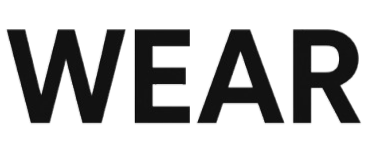
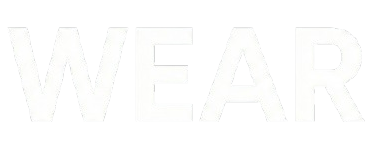
theme update

diff --git a/src/components/Navbar/Navbar.tsx b/src/components/Navbar/Navbar.tsx
@@ -21,28 +21,31 @@ const Navbar = () => {
   }
 
   return (
-    <div className='flex items-center justify-between py-5 font-medium' >
-      <NavLink to="/" ><img src={Logo} alt='Wear' className='w-25 bg-white' /></NavLink>
-      <ul className='hidden sm:flex gap-5 text-sm text-gray-700'>
+    <div className='flex items-center justify-between py-3 font-medium mb-5' >
+      <NavLink to="/" ><img src={Logo} alt='Wear' className='w-20' /></NavLink>
+      <ul className='hidden sm:flex gap-5 text-sm text-[#FFFF]'>
         <NavLink to="/" className="flex flex-col items-center gap-1" >
           <p>Home</p>
-          <hr className='w-2/4 border-none h-[1.5px] bg-gray-700 hidden ' />
+          <hr className='w-2/4 border-none h-[1.5px] bg-[#FFFF] hidden ' />
         </NavLink>
         <NavLink to="/collection" className="flex flex-col items-center gap-1" >
           <p>Collection</p>
-          <hr className='w-2/4 border-none h-[1.5px] bg-gray-700  hidden' />
+          <hr className='w-2/4 border-none h-[1.5px] bg-[#FFFF]  hidden' />
         </NavLink>
         <NavLink to="/about" className="flex flex-col items-center gap-1" >
           <p>About</p>
-          <hr className='w-2/4 border-none h-[1.5px] bg-gray-700  hidden' />
+          <hr className='w-2/4 border-none h-[1.5px] bg-[#FFFF]  hidden' />
         </NavLink>
         <NavLink to="/contact" className="flex flex-col items-center gap-1" >
           <p>Contact</p>
-          <hr className='w-2/4 border-none h-[1.5px] bg-gray-700 hidden ' />
+          <hr className='w-2/4 border-none h-[1.5px] bg-[#FFFF] hidden ' />
         </NavLink>
       </ul>
       <div className="flex items-center gap-6">
-        <SearchIcon onClick={() => setShowSearch(true)} className="w-5 cursor-pointer" />
+        <SearchIcon onClick={() => {
+          setShowSearch(true);
+          navigate("/collection")
+          }} className="w-5 cursor-pointer" />
         <div className="group relative hidden sm:block ">
           {
             token ? (
@@ -56,11 +59,11 @@ const Navbar = () => {
           {
             token && (
 
-              <div className="group-hover:block hidden absolute dropdown-menu -right-[50px] pt-2 " >
-                <div className="flex flex-col gap-2 w-36 py-3 px-5 bg-slate-100 text-gray-500 rounded  ">
-                  {token && <p onClick={() => navigate("/profile")} className="cursor-pointer hover:text-black" >My Profile</p> }
-                  <p onClick={() => navigate("/orders")} className="cursor-pointer hover:text-black" >Orders</p>
-                  <p onClick={Logout} className="cursor-pointer hover:text-black" >Logout</p>
+              <div className="group-hover:block hidden absolute dropdown-menu -right-[50px] pt-2 backdrop-blur-xl z-50" >
+                <div className="flex flex-col gap-2 w-36 py-3 px-5 bg-[#042929]/10  text-[#FFFF] rounded  ">
+                  {token && <p onClick={() => navigate("/profile")} className="cursor-pointer hover:text-sky-700" >My Profile</p> }
+                  <p onClick={() => navigate("/orders")} className="cursor-pointer hover:text-sky-700" >Orders</p>
+                  <p onClick={Logout} className="cursor-pointer hover:text-sky-700" >Logout</p>
                 </div>
               </div>
             )
@@ -68,13 +71,13 @@ const Navbar = () => {
         </div>
         <Link to="/cart" className="relative" >
           <ShoppingCartIcon className="w-5 min-w-5" />
-          <p className="absolute right-[-5px] bottom-[5px] w-4 text-center leading-4 bg-black text-white aspect-square rounded-full text-[8px]  " >{getCartCount()}</p>
+          <p className="absolute right-[-5px] bottom-[5px] w-4 text-center leading-4 backdrop-blur-xl text-white aspect-square rounded-full text-[8px]  " >{getCartCount()}</p>
         </Link>
         <Menu onClick={() => setvisible(true)} className=" w-5 cursor-pointer sm:hidden" />
       </div>
       {/* Mobile Navabr  */}
-      <div className={`absolute top-0 right-0 bottom-0 overflow-hidden bg-white transition-all ${visible ? 'w-[70%]' : 'w-0'}`} >
-        <div className="flex flex-col text-gray-700" >
+      <div className={`absolute top-0 right-0 bottom-0 overflow-hidden backdrop-blur-3xl transition-all ${visible ? 'w-[70%]' : 'w-0'}`} >
+        <div className="flex flex-col text-[#FFFF]" >
           <div onClick={() => setvisible(false)} className="flex items-center gap-2 p-3" >
             <ChevronDown className="h-4 rotate-90 mt-[3px]" />
             <p>Back</p>
@@ -90,14 +93,14 @@ const Navbar = () => {
           <button onClick={()=>{
             Logout()
             setvisible(false)
-          }} className=" absolute top-[150px] cursor-pointer py-2 px-4 bg-black text-white w-[80%] " >Logout</button>
+          }} className=" absolute top-[150px] cursor-pointer py-2 px-4 bg-gray-800 text-white w-[80%] " >Logout</button>
           </div> 
          ):(
           <div className="w-full flex justify-center relative" >
           <button onClick={()=>{
             navigate("/login")
             setvisible(false)
-            }} className=" absolute top-[150px] cursor-pointer py-2 px-4 bg-black text-white w-[80%] " >Login</button>
+            }} className=" absolute top-[150px] cursor-pointer py-2 px-4 bg-gray-800 text-white w-[80%] " >Login</button>
           </div> 
          )}
           {/* <NavLink className="py-2 pl-6 border" to="/home" > Home</NavLink> */}

diff --git a/src/components/pages/Products.tsx b/src/components/pages/Products.tsx
@@ -60,18 +60,18 @@ const Products = () => {
             <p className="pl-2" >(112)</p>
           </div>
           <p className="mt-5 text-3xl font-medium" >{currency}{productData.price}</p>
-          <p className="mt-5 text-gray-500 md:w-4/5 " >{productData.description}</p>
+          <p className="mt-5 text-[#FFFF] md:w-4/5 " >{productData.description}</p>
           <div className="flex flex-col gap-4 my-8" >
              <p>Select, Size</p>
              <div className="flex gap-2" >
                {productData.sizes.map((item:any,index:any)=>(
-                <button onClick={()=> setSize(item)} className={`border py-2 px-4 bg-gray-100  ${item === size? 'border-orange-500': ''} `} key={index} >{item}</button>
+                <button onClick={()=> setSize(item)} className={`border py-2 px-4 bg-gray-700  ${item === size? 'border-orange-500': ''} `} key={index} >{item}</button>
                ))}
              </div>
           </div>
-          <button onClick={()=> addToCart(productData._id, size)} className="bg-black text-white px-8 py-3 text-sm active:bg-gray-700" >Add To Cart</button>
+          <button onClick={()=> addToCart(productData._id, size)} className="bg-gray-700 cursor-pointer text-white px-8 py-3 text-sm active:bg-gray-700" >Add To Cart</button>
           <hr className="mt-8 sm:w-4/5"  />
-          <div className="text-sm text-gray-500 mt-5 flex flex-col gap-1" >
+          <div className="text-sm text-[#FFFF] mt-5 flex flex-col gap-1" >
             <p>100% original product.</p>
             <p>Cash on delivery is available on this product.</p>
             <p>Easy return and exchange policy within 7 days.</p>
@@ -85,7 +85,7 @@ const Products = () => {
          <b className="border px-5 py-3 text-sm" >Description</b>
          <p className="border px-5 py-3 text-sm" >Reviews (122)</p>
         </div>
-        <div className="flex flex-col gap-4 border-y mt-[1px] px-6 py-6 text-sm text-gray-500" >
+        <div className="flex flex-col gap-4 border-y mt-[1px] px-6 py-6 text-sm text-[#FFFF]" >
           <p>Discover fashion that fits your lifestyle. From everyday essentials to statement pieces, we bring you stylish, comfortable, and affordable clothing designed to make you look and feel your best."</p>
           <p>Elevate your wardrobe with timeless fashion. Our premium collection combines elegance, comfort, and modern trends, tailored for every occasion.</p>
 

diff --git a/src/components/pages/Cart.tsx b/src/components/pages/Cart.tsx
@@ -41,14 +41,14 @@ const Cart = () => {
             cartData.map((item,index)=>{
               const productData = products.find((product: { _id: any; })=>product._id ===item._id)
               return(
-                <div key={index} className="py-4 border-t border-b text-gray-700 grid grid-cols[4fr_0.5fr_0.5fr] sm:grid-cols-[4fr_2fr_0.5fr] items-center" >
+                <div key={index} className="py-4 border-t border-b text-[#FFFF] grid grid-cols[4fr_0.5fr_0.5fr] sm:grid-cols-[4fr_2fr_0.5fr] items-center" >
                   <div className="flex items-start gap-6" >
-                    <img src={productData.image[0]} alt=""  className="w-16 sm:w-20"/>
+                    <img src={productData?.image[0]} alt=""  className="w-16 sm:w-20"/>
                     <div>
-                      <p className="text-xs sm:text-lg font-medium" >{productData.name}</p>
+                      <p className="text-xs sm:text-lg font-medium" >{productData?.name}</p>
                       <div className="flex items-center gap-5 mt-2" >
-                       <p>{currency}{productData.price}</p>
-                       <p className="px-2 sm:px-3 sm:py-1 border bg-slate-50" >{item.size}</p>
+                       <p>{currency}{productData?.price}</p>
+                       <p className="px-2 sm:px-3 sm:py-1 border bg-gray-700" >{item?.size}</p>
                       </div>
                     </div>
                   </div>
@@ -63,7 +63,7 @@ const Cart = () => {
         <div className="w-full sm:w-[450px]" >
           <CartTotal/>
           <div className="w-full text-end" >
-            <button onClick={()=> navigate("/placeOrder")} className=" bg-black text-white text-sm my-8 px-8 py-3   cursor-pointer " >Proceed To Checkout</button>
+            <button onClick={()=> navigate("/placeOrder")} className=" bg-gray-700 text-white text-sm my-8 px-8 py-3   cursor-pointer " >Proceed To Checkout</button>
           </div>
         </div>
 

diff --git a/src/components/pages/Collection.tsx b/src/components/pages/Collection.tsx
@@ -101,7 +101,7 @@ const Collection = () => {
           } sm:block `}
         >
           <p className="mb-3 text-sm font-medium">Categories</p>
-          <div className="flex flex-col gap-2 text-sm font-light text-gray-700">
+          <div className="flex flex-col gap-2 text-sm font-light text-[#FFFF]">
             <p className="flex gap-2">
               <input
                 className="w-3"
@@ -138,7 +138,7 @@ const Collection = () => {
           } sm:block `}
         >
           <p className="mb-3 text-sm font-medium">Type</p>
-          <div className="flex flex-col gap-2 text-sm font-light text-gray-700">
+          <div className="flex flex-col gap-2 text-sm font-light text-[#FFFF]">
             <p className="flex gap-2">
               <input onChange={toggleSubCategory} className="w-3" type="checkbox" value={"Topwear"} />
               Topwear
@@ -162,10 +162,10 @@ const Collection = () => {
         >
           <Title text1="All" text2="Collections" />
           {/* Product Sort  */}
-          <select onChange={(e:any)=>setSortType(e.target.value)} className="border-2 border-gray-300 text-sm px-2">
-            <option value="relavent">Sort by : Relavent</option>
-            <option value="low-high">Sort by : Low to High</option>
-            <option value="high-low"> Sort by : High to Low</option>
+          <select onChange={(e:any)=>setSortType(e.target.value)} className="border-2 border-gray-300 text-sm px-2 backdrop-blur-xl">
+            <option className="backdrop-blur-xl bg-[#042929] hover:bg-sky-700" value="relavent">Sort by : Relavent</option>
+            <option className="backdrop-blur-xl bg-[#042929] hover:bg-sky-700" value="low-high">Sort by : Low to High</option>
+            <option className="backdrop-blur-xl bg-[#042929] hover:bg-sky-700" value="high-low"> Sort by : High to Low</option>
           </select>
         </div>
         {/* Map producvts */}

diff --git a/src/components/pages/Orders.tsx b/src/components/pages/Orders.tsx
@@ -53,18 +53,18 @@ const Orders = () => {
         <div className="" >
              {
               orders.map((item:any,index:any)=>(
-                <div key={index} className="py-4 border-t border-b text-gray-700 flex flex-col md:flex-row md:items-center md:justify-between gap-4" >
+                <div key={index} className="py-4 border-t border-b text-[#FFFF] flex flex-col md:flex-row md:items-center md:justify-between gap-4" >
                    <div className=" flex items-start gap-6 text-sm " >
                      <img className="w-16 sm:w-20"  src={item.image[0]} alt="" />
                      <div>
                         <p className="sm:text-base font-medium" >{item.name}</p>
-                        <div className="flex items-center gap-3 mt-2 text-base text-gray-700" >
+                        <div className="flex items-center gap-3 mt-2 text-base text-[#FFFF]" >
                           <p>{currency}{item.price}</p>
                           <p>Quantity : {item.quantity}</p>
                           <p>Size : {item.size} </p>
                         </div>
-                        <p className="mt-1">Date : <span className="text-gray-400">{new Date(item.date).toDateString()}</span></p>
-                        <p className="mt-1">Payment : <span className="text-gray-400">{item.paymentMethod}</span></p>
+                        <p className="mt-1">Date : <span className="text-[#FFFF]">{new Date(item.date).toDateString()}</span></p>
+                        <p className="mt-1">Payment : <span className="text-[#FFFF]">{item.paymentMethod}</span></p>
                      </div>
                    </div>
                    <div className="md:w-1/2 flex justify-between" >

diff --git a/src/components/pages/PlaceOrder.tsx b/src/components/pages/PlaceOrder.tsx
@@ -182,17 +182,17 @@ rzp.open();
               <p className={`min-w-3.5 h-3.5 border rounded-full ${method === 'stripe' ? 'bg-green-400' : ''} `} ></p>
               <img className="h-5 mx-4" src={assets.stripe_logo} alt="stripe" />
             </div> */}
-            <div onClick={() => setmMthod('razorpay')} className="flex items-center gap-3 border p-2 px-3 cursor-pointer" >
+            <div onClick={() => setmMthod('razorpay')} className="flex bg-white/20 items-center gap-3 border p-2 px-3 cursor-pointer" >
               <p className={`min-w-3.5 h-3.5 border rounded-full ${method === 'razorpay' ? 'bg-green-400' : ''} `} ></p>
-              <img className="h-5 mx-4" src={assets.razorpay_logo} alt="stripe" />
+              <img className="h-5 mx-4 " src={assets.razorpay_logo} alt="stripe" />
             </div>
             <div onClick={() => setmMthod('cod')} className="flex items-center gap-3 border p-2 px-3 cursor-pointer" >
               <p className={`min-w-3.5 h-3.5 border rounded-full ${method === 'cod' ? 'bg-green-400' : ''} `} ></p>
-              <p className="text-gray-500 text-sm font-medium mx-4" >Cash on Delivery</p>
+              <p className="text-[#FFFF] text-sm font-medium mx-4" >Cash on Delivery</p>
             </div>
           </div>
           <div className="w-full text-end mt-8" >
-            <button type="submit" className="bg-black text-white px-16 py-3 text-sm cursor-pointer" >Place Order</button>
+            <button type="submit" className="bg-gray-950  text-white px-16 py-3 text-sm cursor-pointer" >Place Order</button>
 
           </div>
         </div>

diff --git a/src/components/website/Hero.tsx b/src/components/website/Hero.tsx
@@ -2,18 +2,18 @@ import Heroimg from "../../assets/hero.jpg"
 
 const Hero = () => {
   return (
-    <div className="flex flex-col sm:flex-row border border-gray-400">
+    <div className="flex flex-col sm:flex-row border border-gray-400 text-[#FFFF] rounded-[5px]">
       {/* Hero left side */}
       <div className="w-full sm:w-1/2 flex items-center justify-center py-10 sm:py-0">
         <div className="text-[#414141]">
           <div className="flex items-center gap-2">
-            <p className="w-8 md:w-11 h-[2px] bg-[#414141]"></p>
-            <p className="font-medium text-sm md:text-base">Our BestSellers</p>
+            <p className="w-8 md:w-11 h-[2px] bg-[#FFFF]"></p>
+            <p className="font-medium text-sm md:text-base text-[#FFFF]">Our BestSellers</p>
           </div>
-          <h1 className="prata-regular text-3xl sm:py-3 lg:text-5xl leading-relaxed " >Latest Arrivals</h1>
+          <h1 className="prata-regular text-3xl sm:py-3 lg:text-5xl leading-relaxed text-[#FFFF] " >Latest Arrivals</h1>
           <div className="flex items-center gap-2" >
-            <p className="font-semibold text-sm md:text-base" >Shop Now</p>
-            <p className="w-8 md:w-11 h-[1px] bg-[#414141]" ></p>
+            <p className="font-semibold text-sm md:text-base text-[#FFFF]" >Shop Now</p>
+            <p className="w-8 md:w-11 h-[1px] bg-[#FFF]" ></p>
           </div>
         </div>
       </div>

diff --git a/src/components/pages/About.tsx b/src/components/pages/About.tsx
@@ -9,10 +9,10 @@ const About = () => {
       <Title text1="About" text2="Us"  />
       <div className="my-10 flex flex-col md:flex-row gap-16" >
         <img className="w-full md:max-w-[450px]" src={assets.about_img} alt="" />
-        <div className="flex flex-col justify-center gap-6 md:w-2/4 text-gray-600" >
+        <div className="flex flex-col justify-center gap-6 md:w-2/4 text-[#FFFF]" >
           <p>Lorem ipsum, dolor sit amet consectetur adipisicing elit. Repudiandae facilis iure deleniti perspiciatis rerum cum porro inventore quidem modi rem.</p>
           <p>Lorem, ipsum dolor sit amet consectetur adipisicing elit. Porro qui dolorum eos voluptatibus, incidunt temporibus voluptas necessitatibus asperiores voluptatem officiis facilis. Accusantium quaerat architecto nisi nostrum sint qui beatae laboriosam.</p>
-          <b className="text-gray-800">Our Mission</b>
+          <b className="text-[#FFFF]">Our Mission</b>
           <p>At Wear, we believe fashion should be more than just what you wear—it should be an expression of who you are. Our mission is to make style accessible, sustainable, and inspiring for everyone. We’re here to bring you carefully curated pieces that blend comfort, quality, and individuality, so you can look good, feel confident, and make your mark—every day.</p>
         </div>
       </div>

diff --git a/src/components/UiComponents/OurPolicity.tsx b/src/components/UiComponents/OurPolicity.tsx
@@ -4,21 +4,21 @@ import { ShieldCheckIcon } from '../ui/ShieldCheckIcon'
 
 const OurPolicity = () => {
   return (
-    <div className=' flex flex-col sm:flex-row justify-around gap-12 text-center py-20 text-xs sm:text-sm md:text-base text-gray-700 ' >
+    <div className=' flex flex-col sm:flex-row justify-around gap-12 text-center py-20 text-xs sm:text-sm md:text-base text-[#FFFF] ' >
        <div>
           <BadgeCentIcon  className='w-12 m-auto mb-5' />
           <p className='font-semibold' >Easy Exchange Policy</p>
-          <p className='text-gray-400' >We offer hassle free exchange policy</p>
+          <p className='text-[#FFFF]' >We offer hassle free exchange policy</p>
        </div>
        <div>
           <ShieldCheckIcon className='w-12 m-auto mb-5' />
           <p className='font-semibold' >7 Days Return Policy</p>
-          <p className='text-gray-400' >We Provide 7 Days free return policy</p>
+          <p className='text-[#FFFF]' >We Provide 7 Days free return policy</p>
        </div>
        <div>
           <HeadsetIcon className='w-12 m-auto mb-5' />
           <p className='font-semibold' >Best customer support</p>
-          <p className='text-gray-400' >We provide 24/7  customer support</p>
+          <p className='text-[#FFFF]' >We provide 24/7  customer support</p>
        </div>
     </div>
   )

diff --git a/src/components/pages/Contact.tsx b/src/components/pages/Contact.tsx
@@ -12,11 +12,11 @@ const Contact = () => {
      <div className="my-10 flex flex-col justify-center md:flex-row gap-10 mb-28" >
        <img className="w-full md:max-w-[480px]  " src={assets.contact_img} alt="" />
        <div className="flex flex-col justify-center items-start gap-6" >
-        <p className="font-semibold text-xl text-gray-600" >Our Store</p>
-        <p className="text-gray-500" >8458 Gas Station <br/> Aurai 210, Varanasi, India </p>
-        <p className="text-gray-500" >Tel: (91) 9876543210 <br/> Email: admin@wear.com </p>
-        <p className="font-semibold text-xl text-gray-600" >Carrers at Wear</p>
-         <p className="text-gray-500" >Learn more about our teams and job opening</p>
+        <p className="font-semibold text-xl text-[#FFFF]" >Our Store</p>
+        <p className="text-[#FFFF]" >8458 Gas Station <br/> Aurai 210, Varanasi, India </p>
+        <p className="text-[#FFFF]" >Tel: (91) 9876543210 <br/> Email: admin@wear.com </p>
+        <p className="font-semibold text-xl text-[#FFFF]" >Carrers at Wear</p>
+         <p className="text-[#FFFF]" >Learn more about our teams and job opening</p>
          <button className="border-r border-b border-black px-8 py-4 text-sm hover:bg-black hover:text-white transition-all duration-500" >Explore Jobs</button>
        </div>
      </div>

diff --git a/src/components/Footer/Footer.tsx b/src/components/Footer/Footer.tsx
@@ -7,7 +7,7 @@ const Footer = () => {
       <div className="flex flex-col sm:grid grid-cols-[3fr_1fr_1fr] gap-14 my-10 mt-40 text-sm">
         <div>
           <img src={Logo} className="mb-5 w-25" alt="" />
-          <p className="w-full md:w-2/3 text-gray-600 ">
+          <p className="w-full md:w-2/3 text-[#FFFF] ">
             Lorem ipsum dolor sit amet consectetur adipisicing elit. Assumenda
             alias quam repudiandae?
           </p>
@@ -15,7 +15,7 @@ const Footer = () => {
         <div>
           <p className="text-xl font-medium mb-4">Company</p>
           <ul
-            className="flex flex-col gap-1 text-gray-600
+            className="flex flex-col gap-1 text-[#FFFF]
              "
           >
             <li>
@@ -35,7 +35,7 @@ const Footer = () => {
         <div>
           <p className="text-xl font-medium mb-5">Get in touch</p>
           <ul
-            className="flex flex-col gap-1 text-gray-600
+            className="flex flex-col gap-1 text-[#FFFF]
              "
           >
             <li>

diff --git a/src/components/UiComponents/NewsLatterBox.tsx b/src/components/UiComponents/NewsLatterBox.tsx
@@ -6,13 +6,13 @@ const NewsLatterBox = () => {
     }
   return (
     <div className="text-center" >
-      <p className=" text-2xl font-medium text-gray-800 " >Subscribe now & get 20% off</p>
-      <p className=" text-gray-400 mt-3 " >
+      <p className=" text-2xl font-medium text-[#FFFF] " >Subscribe now & get 20% off</p>
+      <p className=" text-[#FFFF] mt-3 " >
         Lorem ipsum dolor sit amet consectetur adipisicing elit. Harum, reprehenderit?
       </p>
       <form onSubmit={onSubmitHandler} className="w-full sm:w-1/2 flex items-center gap-3 mx-auto my-6 border pl-3 " >
         <input className="w-full sm:flex-1 outline-none" type="email" placeholder="Enter your email"  />
-        <button className=" bg-black text-white text-xs px-10 p-4 " type="submit" >SUBSCRIBE</button>
+        <button className=" bg-gray-700 text-white text-xs px-10 p-4 " type="submit" >SUBSCRIBE</button>
       </form>
     </div>
   )
